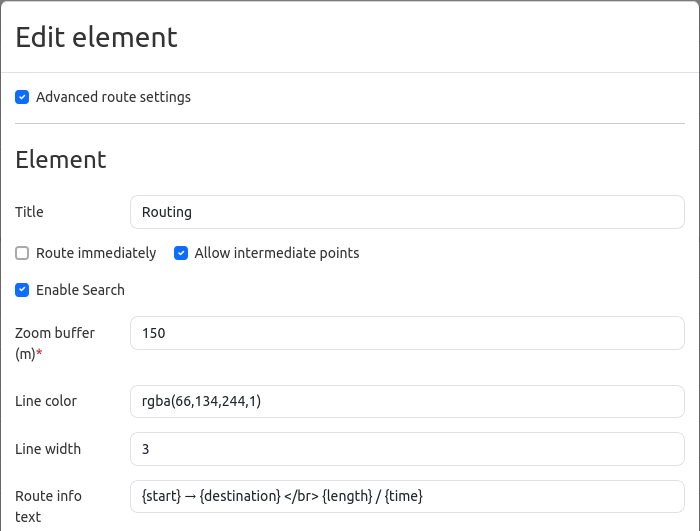
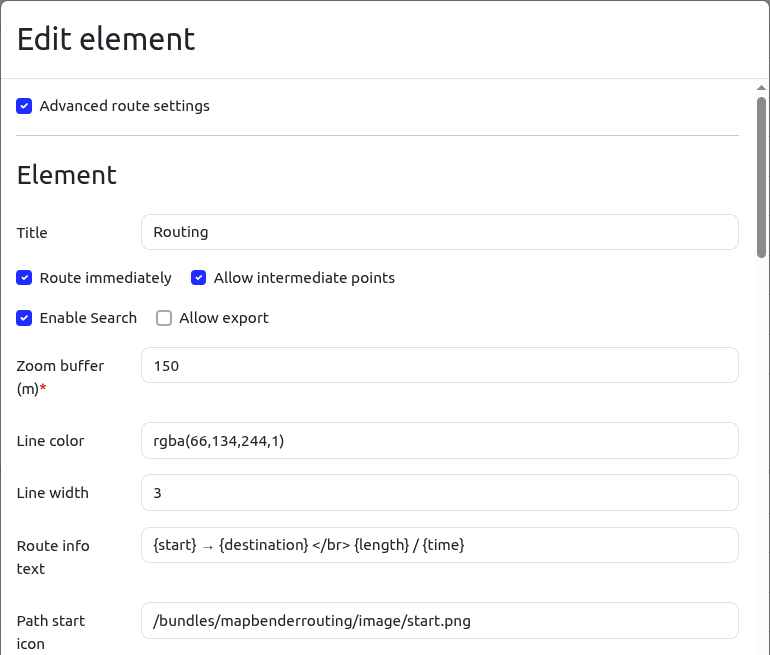
added info about the alloe export feature

diff --git a/en/elements/search/routing.rst b/en/elements/search/routing.rst
@@ -13,13 +13,14 @@ Configuration
 
 
 .. image:: ../../../figures/routing_configuration.png
-     :scale: 70
+     :scale: 65
 
 * **Advanced route settings:** Allows you to make further settings (default: false).
 * **Title:** Elements Title.
 * **Route immediately:** Configuration to deactivate/activate automatic routing without the users interaction (default: false).
 * **Allow intermediate points:** Configuration for deactivating/activating intermediate points (default: false).
 * **Enable Search:** Configuration to deactivate/activate the search option (default: false).
+* **Allow export:** Configuration to deactivate/activate the export of the route (default: false).
 * **Zoom buffer (m):** Definition of a zoom buffer for the result display in meters (default: 0).
 * **Line color:** Option to adjust the line color and opacity with the rgba standard (default: rgba(66, 134, 244, 1)).
 * **Line width:** Option to adjust the line width (default: 3).

diff --git a/de/elements/search/routing.rst b/de/elements/search/routing.rst
@@ -20,6 +20,7 @@ Konfiguration
 * **Route direkt ausgeben:** Konfiguration zum Deaktivieren/Aktivieren des automatischen Routings ohne Interaktion des Nutzers (Standard: false).
 * **Zwischenpunkte erlauben:** Konfiguration zum Deaktivieren/Aktivieren der Zwischenpunkten (Standard: false).
 * **Suche aktivieren:** Konfiguration zum Deaktivieren/Aktivieren der Suchoption (Standard: false).
+* **Export erlauben:** Konfiguration zum Deaktivieren/Aktivieren des Exports der Route (Standard: false).
 * **Zoompuffer(m):** Definition eines Zoompuffers für die Ergebnisanzeige in Meter (Standard: 0).
 * **Linienfarbe:** Anpassen der Lineinfarbe und Deckkraft per rgba Standard (Standard: rgba(66, 134, 244, 1)).
 * **Linienbreite:** Anpassen der Linienbreite (Standard: 3).
